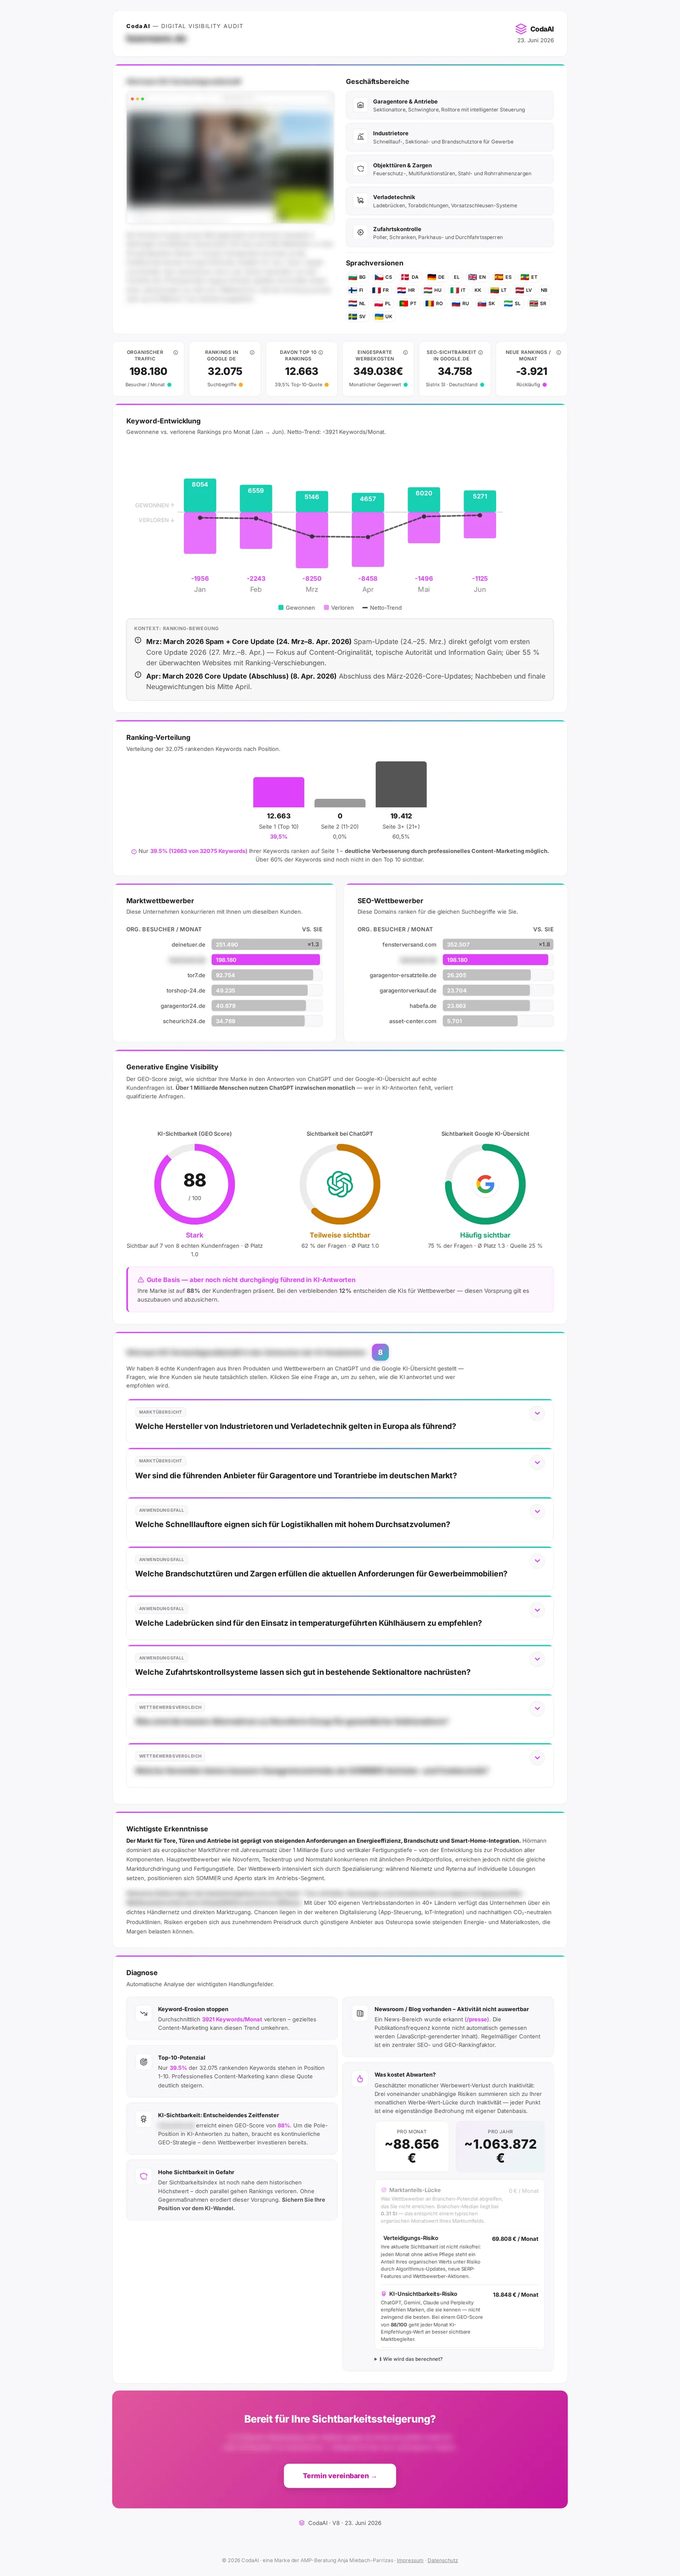
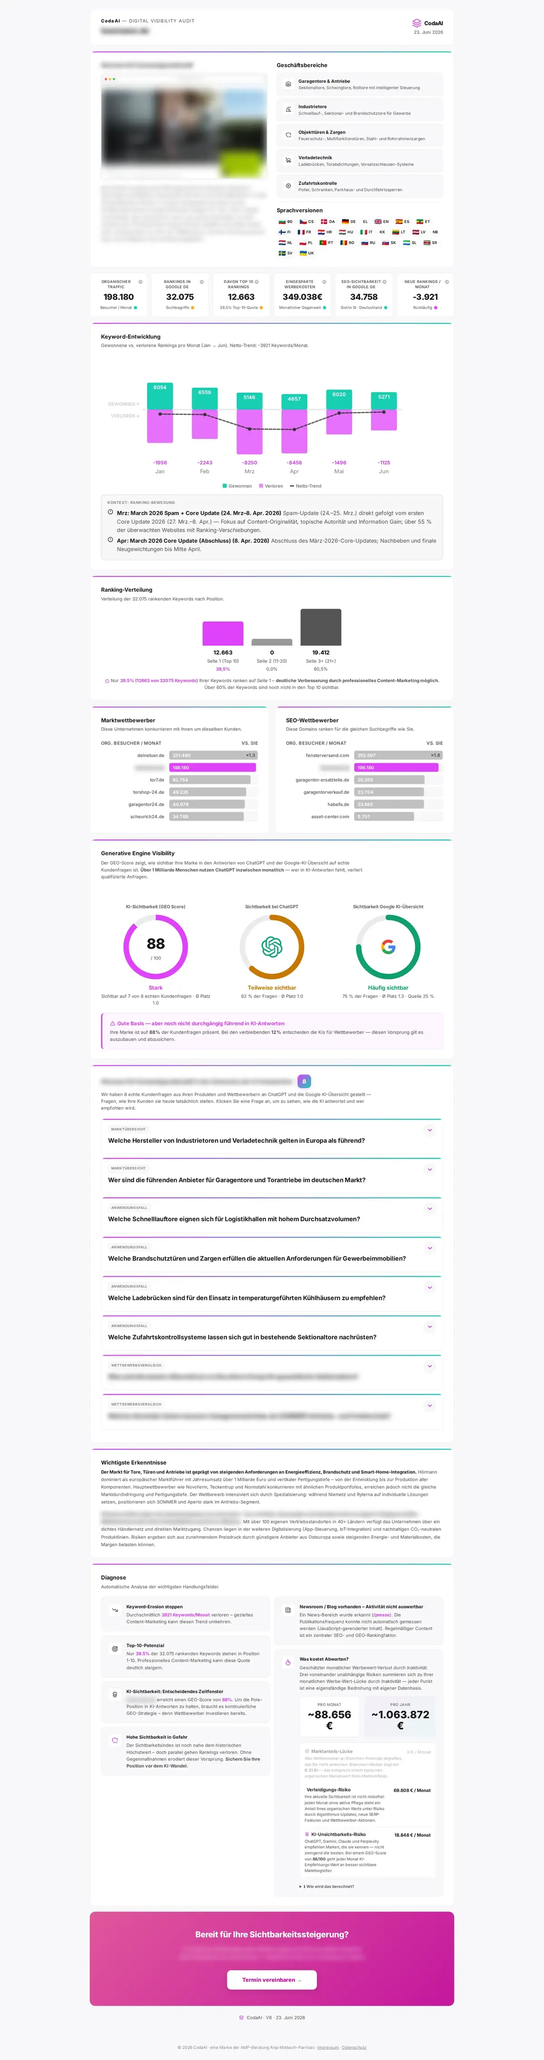
Audit 04.09.: Glossar-Schema, Meta-Laengen, noindex-Schema, Bild-Ladestrategie (DE + EN)
Batch 1 (SEO, 110 Schema-Errors):
- GlossarTerm: Article-Schema mit image + ausgeschriebenem publisher (name, url, logo)
- GlossarTerm: Meta-Description 120-158 Zeichen erzwingen, Kurz-Titles mit ": Definition"
- GlossarHub: Descriptions unter 158 Zeichen
- Blog DE/EN: kein BlogPosting/FAQ-Schema auf noindex-Artikeln
- Blog: Platzhalter updatedDate 2026-03-01 aus 19 Artikeln entfernt (lag z. T. vor pubDate)
- Startseiten-Title DE/EN: Marke hinten wie sitewide
- robots.txt: ?stufe= / ?tier= ausgeschlossen; /en/webinar Description verlaengert

Batch 2 (Performance):
- Layout: Preload-href root-relativ wie <img src>
- Home/Glossar/Blog: loading="lazy" above the fold entfernt
- audit-full.webp 1500x5678/300 KB -> 1200x4542/187 KB
- Avatar-Varianten anja-miebach-80/-96, speaker-norbert-schuster-128 mit srcset

Doku: docs/2026-09-04-squirrelscan-full-audit-batch1.md

Claude-Session: https://claude.ai/code/session_01Bsg6rcPYTZGrJaXinizFkK

diff --git a/src/data/glossar.ts b/src/data/glossar.ts
@@ -212,6 +212,9 @@ export const GLOSSAR_AUTHOR = {
   id: 'https://www.codaai.ai/co-create/#anja-miebach',
   name: 'Anja Miebach',
   image: '/images/team/anja-miebach.webp',
+  /** kleine Varianten für den 40-px-Avatar (Audit 04.09.2026: 43 KB für 40 px) */
+  imageSmall: '/images/team/anja-miebach-80.webp',
+  image96: '/images/team/anja-miebach-96.webp',
   jobTitle: {
     de: 'Gründerin & Inhaberin, CodaAI',
     en: 'Founder & Owner, CodaAI',

diff --git a/.astro/content.d.ts b/.astro/content.d.ts
@@ -127,6 +127,14 @@ declare module 'astro:content' {
   rendered?: RenderedContent;
   filePath?: string;
 }>;
+"glossar": Record<string, {
+  id: string;
+  body?: string;
+  collection: "glossar";
+  data: InferEntrySchema<"glossar">;
+  rendered?: RenderedContent;
+  filePath?: string;
+}>;
 
 	};
 

diff --git a/src/content/blog/en/b2b-blog-as-sales-channel.md b/src/content/blog/en/b2b-blog-as-sales-channel.md
@@ -2,7 +2,6 @@
 title: "B2B Blog as Sales Channel: Lead Guide"
 description: "B2B blogs generate more leads than most mid-market companies realize. Why your blog is the most efficient sales channel – with real numbers and concrete ROI."
 pubDate: 2026-03-05
-updatedDate: 2026-03-01
 lang: en
 author: "CodaAI Editorial Team"
 authorTitle: "AI Content Strategy Team"

diff --git a/src/content/blog/en/ai-content-marketing-strategy.md b/src/content/blog/en/ai-content-marketing-strategy.md
@@ -2,7 +2,6 @@
 title: "AI Content Marketing: Complete Strategy"
 description: "How to rank at the top in Google and AI search engines like ChatGPT and Perplexity using AI-powered content marketing. Strategy, formats and concrete steps."
 pubDate: 2026-01-15
-updatedDate: 2026-03-01
 lang: en
 author: "CodaAI Editorial Team"
 authorTitle: "AI Content Strategy Team"

diff --git a/src/content/blog/b2b-blog-als-vertriebskanal.md b/src/content/blog/b2b-blog-als-vertriebskanal.md
@@ -2,7 +2,6 @@
 title: "B2B-Blog als Vertriebskanal nutzen"
 description: "B2B-Blogs generieren mehr Leads als die meisten Mittelständler ahnen. Warum Ihr Blog der effizienteste Vertriebskanal ist – mit echten Zahlen und konkretem ROI."
 pubDate: 2026-03-05
-updatedDate: 2026-03-01
 lang: de
 author: "CodaAI Redaktion"
 authorTitle: "KI Content-Strategie Team"

diff --git a/src/content/blog/en/create-editorial-plan-with-ai.md b/src/content/blog/en/create-editorial-plan-with-ai.md
@@ -2,7 +2,6 @@
 title: "Editorial Plan with AI: B2B Template"
 description: "How to create a systematic monthly editorial plan using AI – complete with keyword templates, topic clusters, and concrete examples for B2B content teams."
 pubDate: 2026-03-10
-updatedDate: 2026-03-01
 lang: en
 author: "CodaAI Editorial Team"
 authorTitle: "AI Content Strategy Team"

diff --git a/src/content/blog/marketingkosten-senken-ki-content-b2b.md b/src/content/blog/marketingkosten-senken-ki-content-b2b.md
@@ -2,7 +2,6 @@
 title: "Marketingkosten halbieren mit KI-Content"
 description: "Wie B2B-Mittelständler ihre Marketingkosten mit KI-gestütztem Content um 40–60 % senken – bei gleichzeitig mehr Reichweite und qualifizierteren Leads."
 pubDate: 2026-03-12
-updatedDate: 2026-03-01
 lang: de
 author: "CodaAI Redaktion"
 authorTitle: "KI Content-Strategie Team"

diff --git a/src/content/blog/marketingagentur-alternative-ki-mittelstand.md b/src/content/blog/marketingagentur-alternative-ki-mittelstand.md
@@ -2,7 +2,6 @@
 title: "KI statt Agentur: Was 2026 wirklich bringt"
 description: "Wofür sich eine klassische Agentur weiter lohnt und wofür nicht – und welche Alternativen B2B-Mittelständler 2026 für die Content-Produktion haben."
 pubDate: 2026-03-17
-updatedDate: 2026-03-01
 lang: de
 author: "CodaAI Redaktion"
 authorTitle: "KI Content-Strategie Team"

diff --git a/src/content/blog/ki-content-marketing-strategie.md b/src/content/blog/ki-content-marketing-strategie.md
@@ -2,7 +2,6 @@
 title: "KI Content Marketing: Mehr Sichtbarkeit"
 description: "Wie Sie mit KI-gestütztem Content Marketing in Google und KI-Suchmaschinen wie ChatGPT und Perplexity top ranken. Strategie, Tools und konkrete Schritte."
 pubDate: 2026-01-08
-updatedDate: 2026-03-01
 lang: de
 author: "CodaAI Redaktion"
 authorTitle: "KI Content-Strategie Team"

diff --git a/src/content/blog/ki-blog-erstellen.md b/src/content/blog/ki-blog-erstellen.md
@@ -2,7 +2,6 @@
 title: "KI Blog erstellen: SEO-Artikel in 30 Min."
 description: "Mit KI einen SEO-Artikel erstellen: vom Keyword bis zur Veröffentlichung in 30 Minuten. Konkreter Schritt-für-Schritt-Workflow mit echten Zeitdaten."
 pubDate: 2026-01-29
-updatedDate: 2026-03-01
 lang: de
 author: "CodaAI Redaktion"
 authorTitle: "KI Content-Strategie Team"

diff --git a/src/content/blog/en/outsource-blog-writing-costs.md b/src/content/blog/en/outsource-blog-writing-costs.md
@@ -2,7 +2,6 @@
 title: "Blog Writing Costs: Agency vs AI 2025"
 description: "Blog article writing costs: in-house vs freelance vs AI platforms. Transparent calculation of when in-house writing pays off – and when it doesn't."
 pubDate: 2026-01-08
-updatedDate: 2026-03-01
 lang: en
 author: "CodaAI Editorial Team"
 authorTitle: "AI Content Strategy Team"

diff --git a/src/content/blog/en/create-ai-powered-blog.md b/src/content/blog/en/create-ai-powered-blog.md
@@ -2,7 +2,6 @@
 title: "Create a Blog with AI: 4 Articles/Month"
 description: "How to start and maintain a high-performing B2B blog using AI tools — without hiring full-time writers or paying for expensive content agencies."
 pubDate: 2026-01-28
-updatedDate: 2026-03-01
 lang: en
 author: "CodaAI Editorial Team"
 authorTitle: "AI Content Strategy Team"
